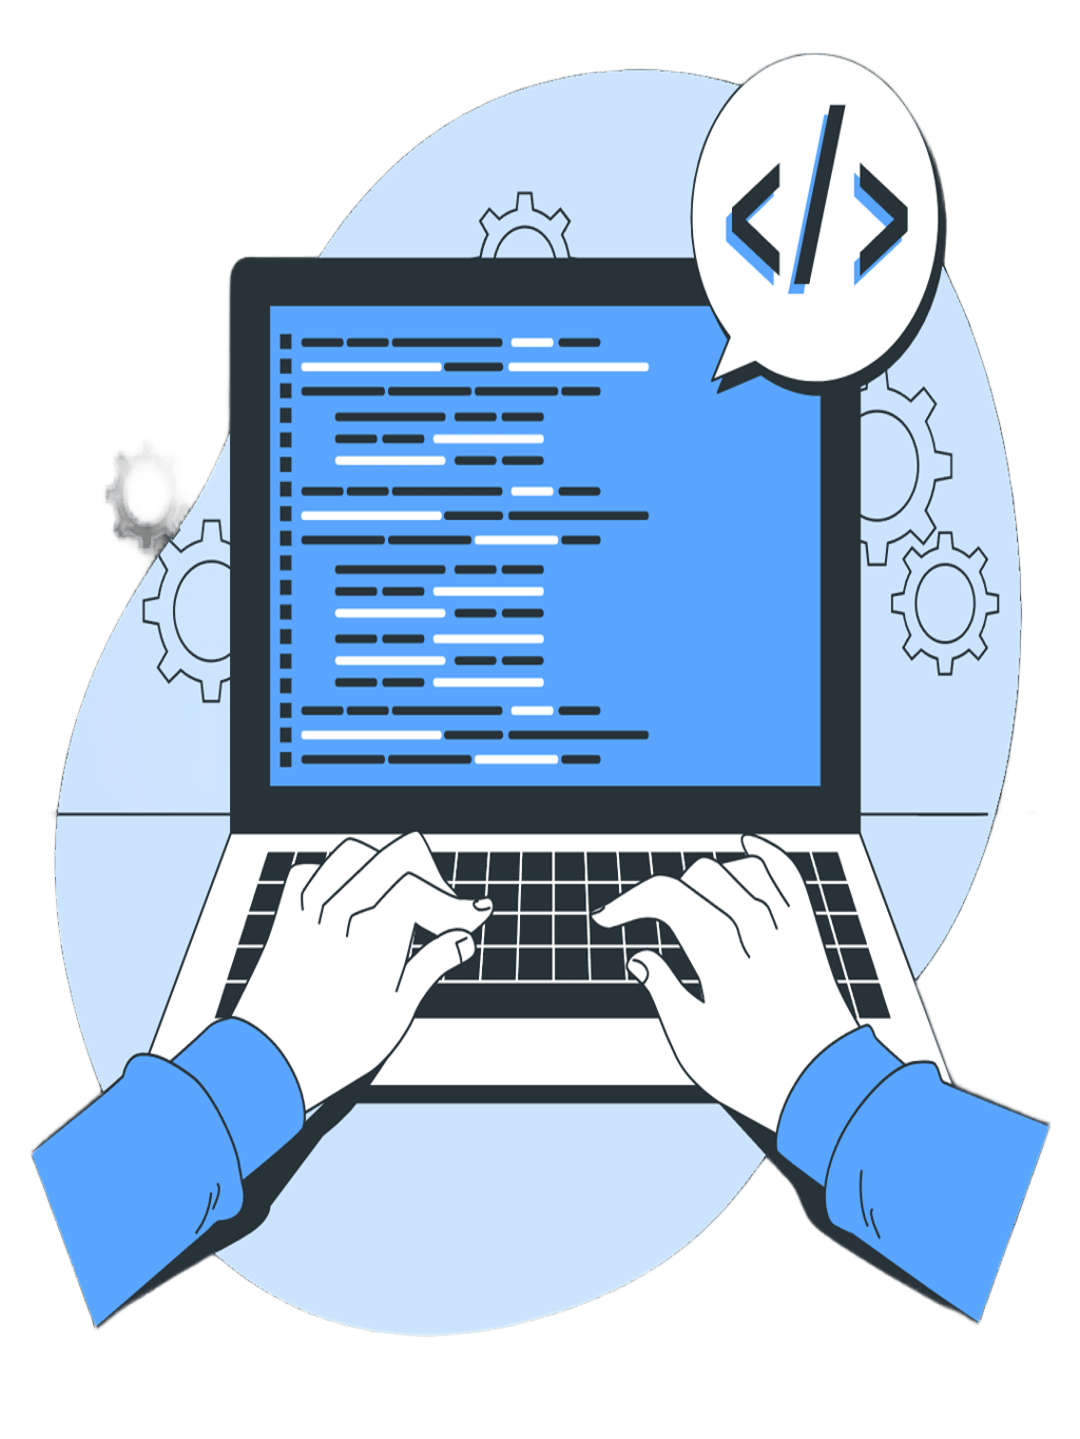
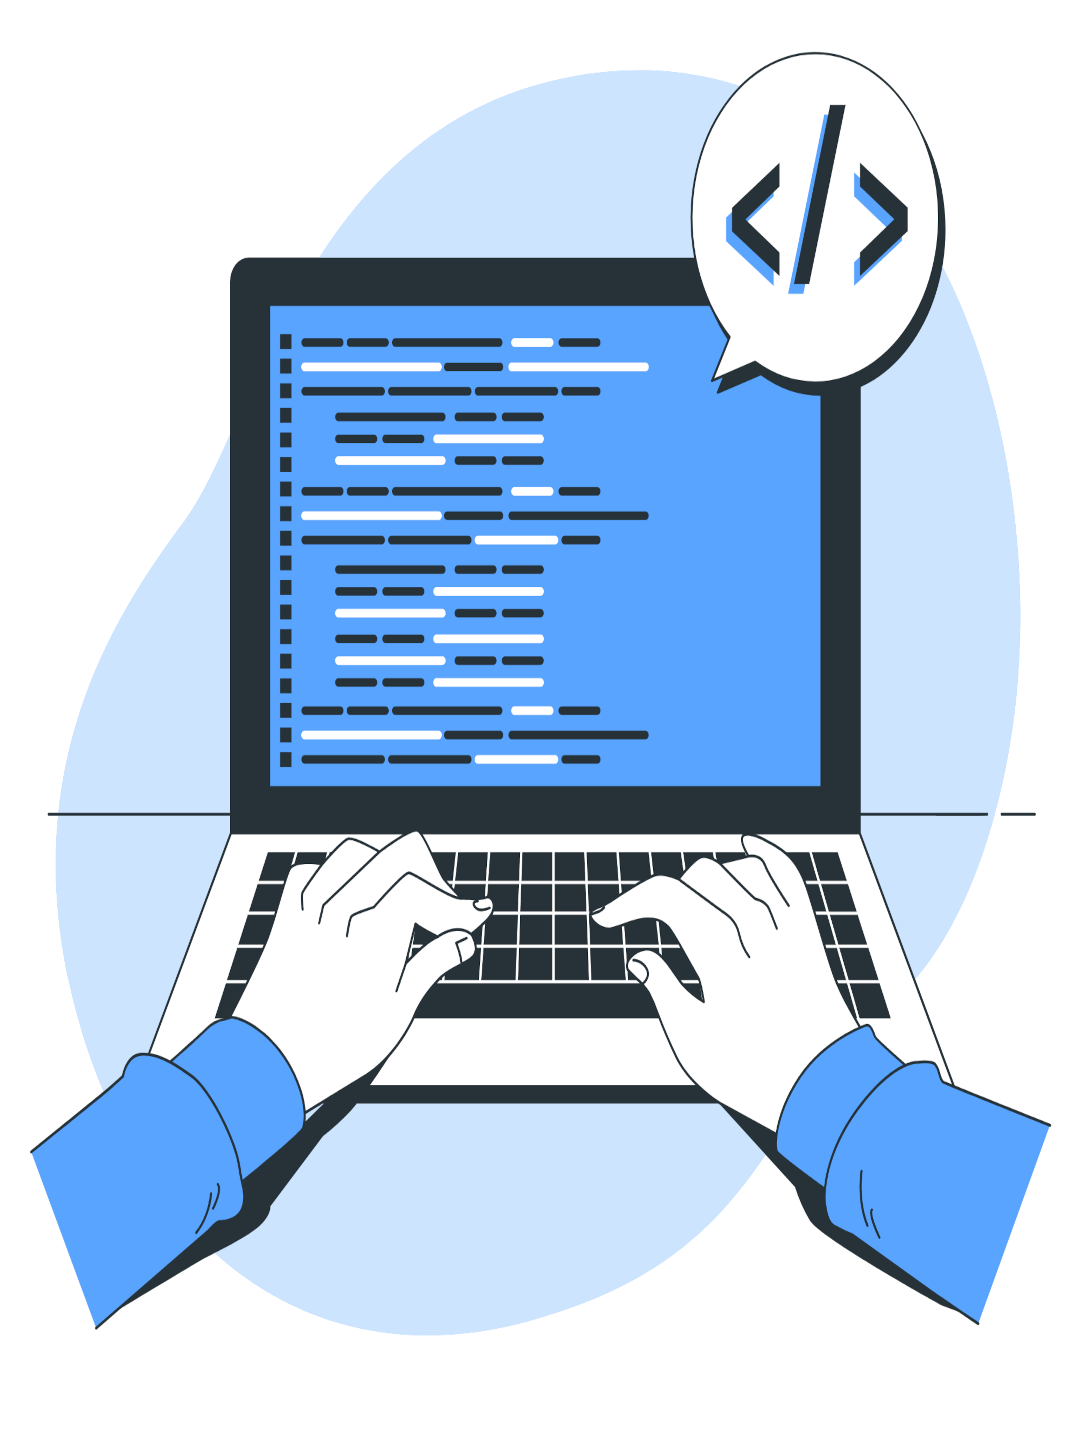
Reformulando as cores + nova imagem no main

diff --git a/css/style.css b/css/style.css
@@ -4,8 +4,7 @@
 @import url('https://fonts.googleapis.com/css2?family=Inter:ital,opsz,wght@0,14..32,100..900;1,14..32,100..900&family=Montserrat:ital,wght@0,100..900;1,100..900&family=Poppins:ital,wght@0,100;0,200;0,300;0,400;0,500;0,600;0,700;0,800;0,900;1,100;1,200;1,300;1,400;1,500;1,600;1,700;1,800;1,900&display=swap');
 
 /* Fonts */
-:root,
-:root[data-theme="dark"] {
+:root {
     --menu: "Montserrat", sans-serif;
     --titles: "Poppins", sans-serif;
     --paragraphs: "Inter", sans-serif;
@@ -14,19 +13,20 @@
 }
 
 /* Colors Dark */
-:root {
-    --bg-body: #0E1117;
-    --bg-body-interleaved: #161B22;
-    --bg-menu: #0D1B2A;
-    --color-titles: #F0F6FC;
+:root,
+:root[data-theme="dark"] {
+    --bg-body: #080C1C;
+    --bg-body-interleaved: #0F172A;
+    --bg-menu: #14213D;
+    --color-titles: #F8F8F8;
     --color-paragraphs: #FFF;
     --color-icon-hover: #2979FF;
-    --bg-button: #2979FF;
+    --bg-button: #4FACFE;
     --color-button: #fff;
     --hover-button: #1E6ED2;
     --shadow-button: #58a6ff80;
     --line-h1: #2979FF;
-    --bg-accordion: #1f1f1f;
+    --bg-accordion: #1462a7;
     --bg-card-skill: #fff;
     --bg-card-projects: #1b1b1d;
     --hover-card-projects: #e0e0e066;
@@ -42,19 +42,26 @@
 
 /* Colors Light */
 :root[data-theme="light"] {
-    --bg-body: #cecece;
-    --bg-body-interleaved: #ababab;
-    --color-titles: #000022;
-    --color-paragraphs: #000;
-    --bg-button: #7CA9F9;
-    --color-button: #000;
-    --bg-accordion: #F0F2F5;
-    --bg-card-skill: #afafaf;
+    --bg-body: #F2F2F2;
+    --bg-body-interleaved: #CBD5E1;
+    --bg-menu: #14213D;
+    --color-titles: #000;
+    --color-paragraphs: #0D0D0D;
+    --color-icon-hover: #2979FF;
+    --bg-button: #1E6ED2;
+    --color-button: #fff;
+    --hover-button: #233ed9;
+    --shadow-button: #272727;
+    --line-h1: #2979FF;
+    --bg-accordion: #c1ddff;
+    --bg-card-skill: #d4d4d4;
     --bg-card-projects: #CECECE;
+    --hover-card-projects: #272727;
+    --shadow-btn-projects: #58a6ff80;
     --bg-form: #E0E2E8;
 
     --white: #000;
-    --black: #fff;
+    --black: #fff; 
 }
 
 /* general */
@@ -62,7 +69,7 @@ html[data-theme='dark'] .logo {
     filter: invert(1);
 }
 
-html{
+html {
     scroll-padding-top: 70px;
 }
 
@@ -95,10 +102,15 @@ body {
 
 /* MENU */
 
+header {
+  border-bottom: 2px solid var(--white); 
+  z-index: 999;
+}
+
+
 .menu,
 header {
     background: var(--bg-menu);
-    border-bottom: 2px solid var(--white);
 }
 
 .navbar-nav {
@@ -109,22 +121,23 @@ header {
     color: #fff;
 }
 
-.nav-link:hover{
-    color: var(--hover-button);
+.nav-link:hover {
+    color: #fff;
     transition: .3s;
     transform: translateY(-3px);
+    text-shadow: 0 0 8px #38BDF8, 0 0 15px #38BDF8;
 }
 
-nav a{
-  color: #fff;
-  text-decoration: none;
-  position: relative;
+nav a {
+    color: #fff;
+    text-decoration: none;
+    position: relative;
 }
 
 
 .navbar-toggler {
     border: 2px solid #fff;
-    color: #fff;
+    color: var(--white);
 }
 
 .navbar-toggler-icon {
@@ -154,10 +167,6 @@ nav a{
 }
 
 
-
-
-
-
 /* END MENU */
 
 
@@ -178,10 +187,11 @@ nav a{
     transition: .3s;
 }
 
-.main-button, .about-button{
+.main-button,
+.about-button {
     background: var(--bg-button);
     text-decoration: none;
-    color: var(--white);
+    color: var(--color-button);
     font-family: var(--button);
 }
 
@@ -287,7 +297,8 @@ img {
     flex-wrap: wrap;
 }
 
-.card-skill, .card-skill p{
+.card-skill,
+.card-skill p {
     background: var(--bg-card-skill);
     color: var(--black);
 }
@@ -483,6 +494,7 @@ form label {
     color: var(--white);
     font-family: var(--footer);
     border-top: 2px solid var(--white);
+    background: var(--bg-body-interleaved);
 }
 
 footer p a {

diff --git a/index.html b/index.html
@@ -28,7 +28,7 @@
     <!-- HEADER -->
 
     <header class="fixed-top">
-        <nav class="navbar navbar-expand-lg position-relative px-3 py-3 "> <!-- py-sm-4 -->
+        <nav class="navbar navbar-expand-lg position-relative px-3 py-3 ">
             <!-- button mobile -->
             <button class="navbar-toggler" type="button" data-bs-toggle="collapse" data-bs-target="#menuNav"
                 aria-controls="menuNav" aria-expanded="false" aria-label="Toggle navigation">
@@ -101,9 +101,6 @@
 
             <!-- img -->
             <div class="col-12 col-md-5 mt-5">
-                <!-- <img src="img/myself/BackgroundEraser_20250625_192413146.png" alt="" class="img-fluid"> eu-->
-                <!-- <img src="img/myself/img-main.png" alt="" class="img-fluid"> -->
-                <!-- <img src="img/myself/img-main.svg" alt="" class="img-fluid"> -->
                 <img src="img/main/img-main.png" alt="Imagem cartoon de uma pessoa digitando no computador aparecendo apenas os dois braços da mesma." class="img-fluid">
             </div>
         </div>
@@ -578,15 +575,15 @@
 
     <!-- FOOTER -->
 
-    <footer class="footer text-center pt-3">
-        <p class="p-1">© 2025 Gabriel Almeida • Portfólio profissional de Front-End. Desenvolvido por
+    <footer class="footer text-center p-1">
+        <p class="pt-2">© 2025 Gabriel Almeida • Portfólio profissional de Front-End. Desenvolvido por
             <i class="bi bi-github"></i><a href="https://github.com/GabrielAlmeidaSil" class="my-name ms-1"
                 target="_blank">Gabriel Almeida</a> |
             <a href="#inicio">Voltar para o topo</a> <i class="bi bi-arrow-up"></i>
         </p>
     </footer>
 
-    <!-- FOOTER -->
+    <!-- END FOOTER -->
 
 
     <!-- Import AOS.js -->
